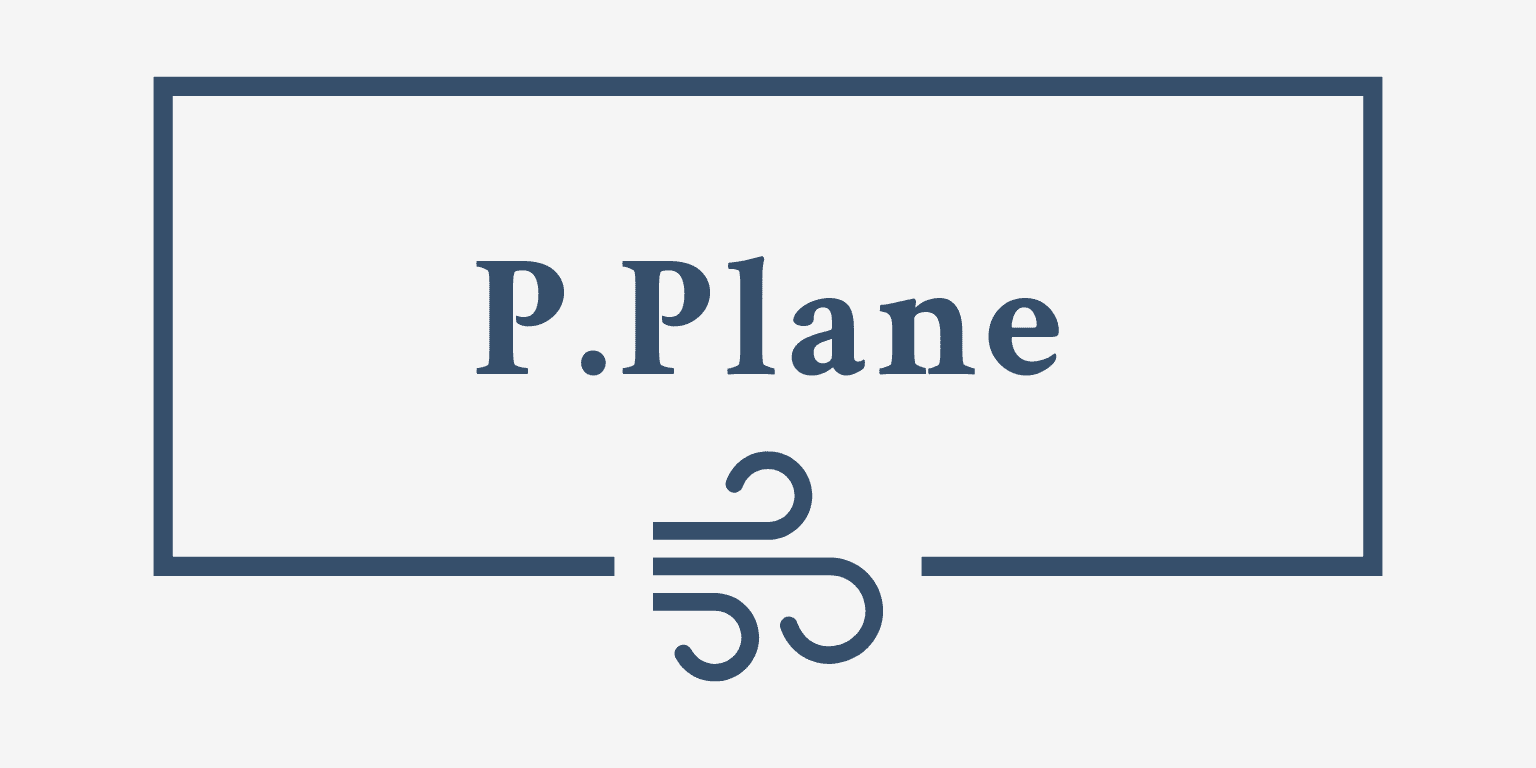
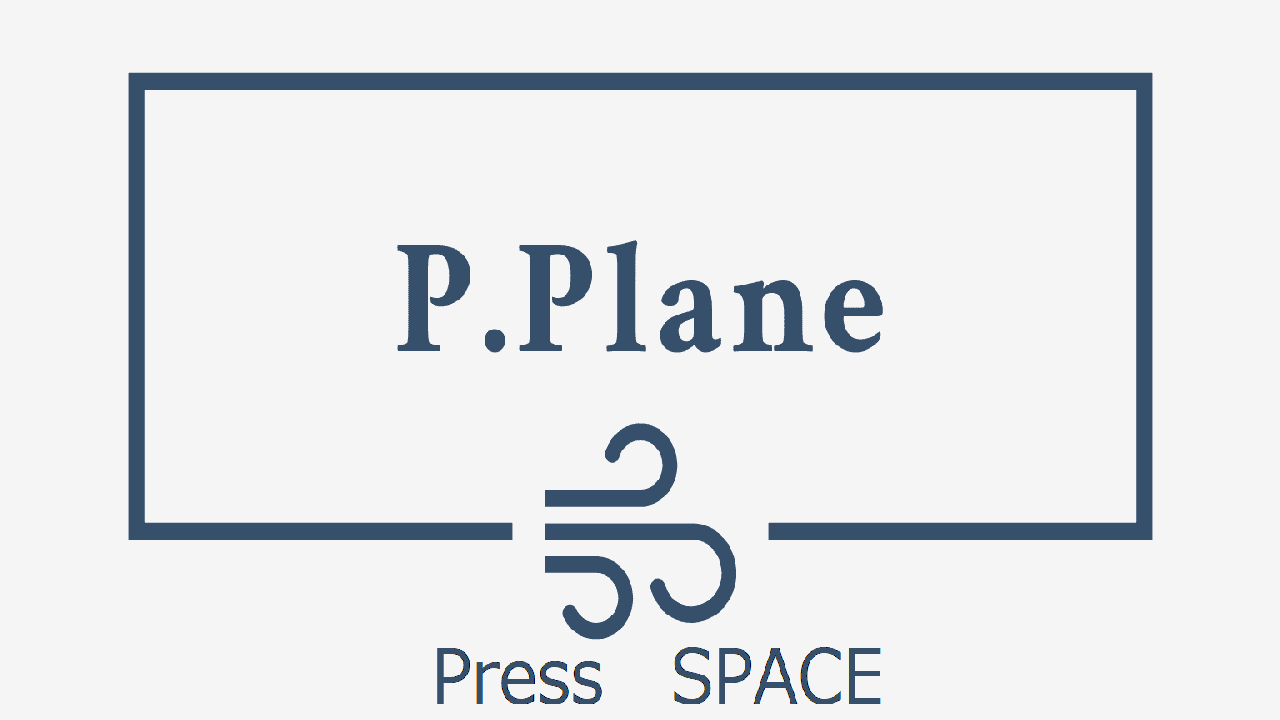
imguiを消す

diff --git a/TD3_01/Application/Game/Scene/TitleScene.cpp b/TD3_01/Application/Game/Scene/TitleScene.cpp
@@ -8,7 +8,7 @@
 DirectXBasis* TitleScene::dxBas_ = DirectXBasis::GetInstance();
 Input* TitleScene::input_ = Input::GetInstance();
 
-void TitleScene::Initialize(){
+void TitleScene::Initialize() {
 	/// 描画初期化
 	//オブジェクト基盤
 	Object3d::StaticInitialize(dxBas_->GetDevice().Get());
@@ -24,7 +24,7 @@ void TitleScene::Initialize(){
 	planeModel_ = Model::LoadFromOBJ("PaperPlane", false);
 
 	skydomeModel_ = new Model();
-	skydomeModel_ = Model::LoadFromOBJ("skydome",false);
+	skydomeModel_ = Model::LoadFromOBJ("skydome", false);
 
 
 	planeObj_ = new Object3d();
@@ -48,13 +48,16 @@ void TitleScene::Initialize(){
 	drawBas_->Initialize();
 
 	drawBas_->LoadTexture(0, "title.png");
+	drawBas_->LoadTexture(1, "tutorial.png");
 
 	//描画スプライト
 
-	sprite_->Initialize(drawBas_,0);
+	sprite_->Initialize(drawBas_, 0);
+	sprite2_->Initialize(drawBas_, 1);
+	spriteChange = false;
 }
 
-void TitleScene::Update(){
+void TitleScene::Update() {
 	input_->Update();
 
 	camera_->Update();
@@ -65,13 +68,21 @@ void TitleScene::Update(){
 
 	sprite_->Update();
 
-	if (input_->TriggerKey(DIK_RETURN)) {
-		//シーンの切り替えを依頼
-		SceneManager::GetInstance()->ChangeScene("GAMEPLAY");
+	if (input_->TriggerKey(DIK_SPACE))
+	{
+		spriteChange = true;
 	}
+	if (spriteChange)
+	{
+		if (input_->TriggerKey(DIK_RETURN)) {
+			//シーンの切り替えを依頼
+			SceneManager::GetInstance()->ChangeScene("GAMEPLAY");
+		}
+	}
+
 }
 
-void TitleScene::Draw(){
+void TitleScene::Draw() {
 	//モデル本命処理
 	Object3d::PreDraw(dxBas_->GetCommandList().Get());
 
@@ -82,18 +93,25 @@ void TitleScene::Draw(){
 
 	//スプライト本命処理
 	drawBas_->PreDraw();
-
-	sprite_->Draw();
+	if (spriteChange)
+	{
+		sprite2_->Draw();
+	}
+	else
+	{
+		sprite_->Draw();
+	}
 
 	drawBas_->PostDraw();
 }
 
-void TitleScene::Finalize(){
+void TitleScene::Finalize() {
 	SafeDelete(planeObj_);
 	SafeDelete(skydomeObj_);
 	SafeDelete(planeModel_);
 	SafeDelete(skydomeModel_);
 	SafeDelete(sprite_);
+	SafeDelete(sprite2_);
 
 	SafeDelete(lightGroup_);
 	SafeDelete(camera_);

diff --git a/TD3_01/Application/Base/Framework.cpp b/TD3_01/Application/Base/Framework.cpp
@@ -68,15 +68,7 @@ void Framework::Update(){
 	}
 
 	imGuiManager_->Begin();
-	ImGui::Begin("How to Play");
-	ImGui::SetWindowPos(ImVec2(10, 400));
-	ImGui::SetWindowSize(ImVec2(800, 200));
-	ImGui::SetWindowFontScale(2.0f);
-	ImGui::Text("Mouse Click Left : Move of Fan Positon");
-	ImGui::Text("hold-> + WASD : Rota of Fan Direction");
-	ImGui::Text("Space : Plane Move Forward");
-	ImGui::Text("");
-	ImGui::Text("Press ENTER to GameStart");
+	
 	ImGui::End();
 
 #ifdef _DEBUG

diff --git a/TD3_01/Application/Game/Scene/TitleScene.h b/TD3_01/Application/Game/Scene/TitleScene.h
@@ -39,4 +39,6 @@ private:
 	/// スプライト
 	/// </summary>
 	Sprite* sprite_ = new Sprite();
+	Sprite* sprite2_ = new Sprite();
+	bool spriteChange = false;
 };
